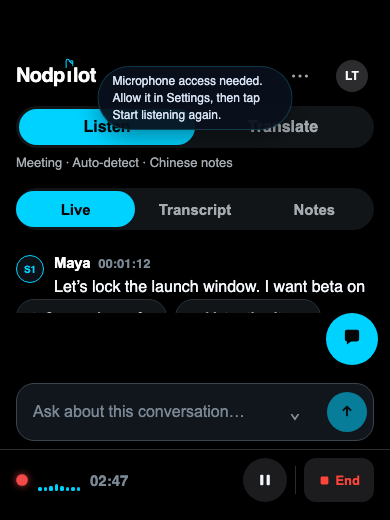
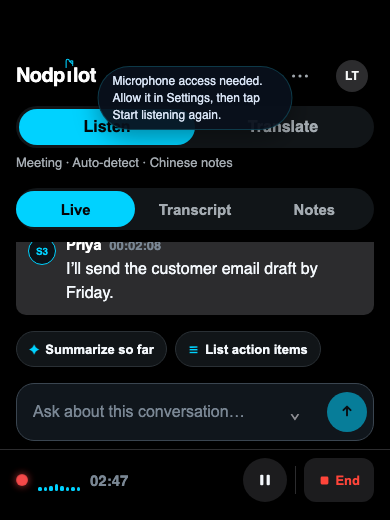
fix(web): Translate Pause→Stop, Ask drag clamp, keyboard shortcuts crush (#193 review round 1)
Three items from the #194 review, each with an assertion that fails on the
previous commit:

1. Translate Pause → Stop did nothing. The bar's Stop calls `handleStop`, which
   only handled a live capture or a Meeting session, so a PAUSED Translate
   session fell through and the listener stayed attached — the order's
   "Pause → Stop → next session" was not met. `handleStop` now ends a paused
   non-Meeting session with the same bare `stopListen()` the translate branch of
   `handlePrimary` already uses from the listening state; Meeting keeps its
   notes+save path. e2e: "Pause then Stop really ends a Translate session, and
   the next one can start" (stop_listen count 0 before, 1 after).

2. Two ask pointer anchors were taken from `getBoundingClientRect()`, which
   already carries the running translate — the accumulated offset was added a
   second time, so the clamp saw a phantom position: dragging back towards an
   edge overshot the bubble's own limit (measured 346 vs the 327 limit) and could
   push it off-screen, and a hard drag could be swallowed entirely. The drag now
   anchors on the UNtranslated position. e2e drives two in-bounds drags (pointer
   tracking), then a clamp-binding drag, then a drag back out, and a cancelled
   gesture followed by a tap.

3. Keyboard-open layout still clipped: the metric showed the shortcuts crushed to
   14px (their own scroll height 44) because the always-present Ask bubble plus
[…]

Changed region(s): [[0.0308, 0.4615, 0.9846, 0.7077]]

diff --git a/web/e2e/listen-mobile.spec.ts b/web/e2e/listen-mobile.spec.ts
@@ -188,6 +188,58 @@ test.describe('Listen mobile Ask bubble (#193 item 3)', () => {
     expect(after.x + after.width).toBeLessThanOrEqual(390)
     expect(after.y + after.height).toBeLessThanOrEqual(844)
   })
+
+  test('consecutive drags do not double-count the offset, and a cancelled drag still taps', async ({ page }) => {
+    const ws = await mockListenWs(page)
+    await ws.gotoListening()
+    const bubble = page.getByRole('button', { name: 'Ask' })
+    const input = page.locator('.listen-prompt input')
+    const dragBy = async (dx: number, dy: number) => {
+      const b = (await bubble.boundingBox())!
+      await page.mouse.move(b.x + b.width / 2, b.y + b.height / 2)
+      await page.mouse.down()
+      await page.mouse.move(b.x + b.width / 2 + dx, b.y + b.height / 2 + dy, { steps: 12 })
+      await page.mouse.up()
+    }
+
+    // Two in-bounds drags: each must track the pointer exactly (the cumulative
+    // bug stays invisible while the clamp does not bind — hence the third step).
+    const start = (await bubble.boundingBox())!
+    await dragBy(-60, -100)
+    const first = (await bubble.boundingBox())!
+    expect(Math.abs(first.x - start.x + 60)).toBeLessThanOrEqual(3)
+    expect(Math.abs(first.y - start.y + 100)).toBeLessThanOrEqual(3)
+    await dragBy(-60, -100)
+    const second = (await bubble.boundingBox())!
+    expect(Math.abs(second.x - first.x + 60)).toBeLessThanOrEqual(3)
+    expect(Math.abs(second.y - first.y + 100)).toBeLessThanOrEqual(3)
+
+    // Now drag back towards the edge with the pointer STAYING inside the
+    // viewport. The old math clamped a position displaced by an extra offset,
+    // so the bubble sailed past its own right limit (346 vs 326 here) and could
+    // leave the screen; the fixed math pins it at the limit.
+    await dragBy(140, 60)
+    const clamped = (await bubble.boundingBox())!
+    const limitX = 390 - clamped.width - 12
+    expect(clamped.x).toBeLessThanOrEqual(limitX + 1)
+    expect(clamped.x + clamped.width).toBeLessThanOrEqual(390)
+    expect(clamped.y + clamped.height).toBeLessThanOrEqual(844)
+
+    // and a drag back out of that clamped position still works
+    await dragBy(-120, -140)
+    const back = (await bubble.boundingBox())!
+    expect(back.x).toBeLessThan(clamped.x - 40)
+    expect(back.y).toBeLessThan(clamped.y - 60)
+
+    // none of that was a tap: the input stayed closed
+    await expect(input).toHaveCount(0)
+
+    // a cancelled gesture must not eat the next tap
+    await bubble.dispatchEvent('pointercancel', { pointerId: 9, clientX: 10, clientY: 10 })
+    await bubble.click()
+    await expect(input).toBeVisible()
+    await expect(input).toBeFocused()
+  })
 })
 
 test.describe('Listen mobile recording chrome', () => {
@@ -315,6 +367,17 @@ test.describe('Listen mobile recording chrome', () => {
     // indicator — that dead space is what pushed the controls out of the viewport
     const padding = await page.locator('.iphone-live-bar').evaluate((el) => getComputedStyle(el).paddingBottom)
     expect(padding).toBe('10px')
+    // and the shortcuts must survive the shrunken feed instead of being crushed
+    const chips = await page.locator('.iphone-ask-chips').evaluate((el) => {
+      const r = el.getBoundingClientRect()
+      return { h: r.height, bottom: r.bottom, clientH: el.clientHeight, scrollH: el.scrollHeight }
+    })
+    expect(chips.h).toBeGreaterThanOrEqual(40)
+    expect(chips.scrollH).toBeLessThanOrEqual(chips.clientH + 1)
+    expect(chips.bottom).toBeLessThanOrEqual(boxes.viewport)
+    // while the keyboard is up the input row is the Ask control, so the bubble
+    // steps aside (it returns on blur)
+    await expect(page.getByRole('button', { name: 'Ask' })).toBeHidden()
     await page.screenshot({ path: `${EVIDENCE}/listen-ask-kb-390.png` })
   })
 })
@@ -433,6 +496,31 @@ test.describe('Translate mobile chrome (#193 item 5)', () => {
     await page.getByRole('button', { name: 'Start voice translation' }).click()
     ws.send({ type: 'phase', capture: 'listening', engine: 'idle' })
     await expect(page.locator('.iphone-live-bar .iphone-clock')).toHaveText('00:00')
+  })
+
+  test('Pause then Stop really ends a Translate session, and the next one can start', async ({ page }) => {
+    const ws = await mockListenWs(page, '/app?demo=meeting')
+    await countSends(page)
+    await page.getByRole('tab', { name: /translate/i }).click()
+    await page.getByRole('button', { name: 'Start voice translation' }).click()
+    ws.send({ type: 'phase', capture: 'listening', engine: 'idle' })
+    await expect(page.getByRole('button', { name: 'Stop' })).toBeVisible()
+    await page.getByRole('button', { name: 'Pause' }).click()
+    ws.send({ type: 'phase', capture: 'paused', engine: 'idle' })
+    await expect(page.getByRole('button', { name: 'Resume' })).toBeVisible()
+
+    await page.getByRole('button', { name: 'Stop' }).click()
+    await expect.poll(() => sendsOf(page, 'stop_listen')).toBe(1)
+
+    ws.send({ type: 'phase', capture: 'off', engine: 'idle' })
+    await expect(page.getByRole('button', { name: 'Start voice translation' })).toBeVisible()
+    // no Save anywhere on this path either
+    await expect(page.getByRole('button', { name: /^Save/ })).toHaveCount(0)
+
+    // the next session starts cleanly
+    await page.getByRole('button', { name: 'Start voice translation' }).click()
+    ws.send({ type: 'phase', capture: 'listening', engine: 'idle' })
+    await expect(page.getByRole('button', { name: 'Stop' })).toBeVisible()
   })
 
   test('Translate offers no Save anywhere (#193 item 8)', async ({ page }) => {

diff --git a/web/src/App.css b/web/src/App.css
@@ -7727,6 +7727,10 @@ html.nod-phone .app.iphone-v2 .iphone-ask-chips {
   display: flex;
   gap: 8px;
   overflow-x: auto;
+  /* #193 review: never let a shrinking feed crush the shortcuts to a sliver —
+     their own height must survive the keyboard-open layout. */
+  flex: 0 0 auto;
+  min-height: 44px;
   padding: 0 max(var(--iphone-gutter), env(safe-area-inset-right)) 8px max(var(--iphone-gutter), env(safe-area-inset-left));
 }
 
@@ -8572,6 +8576,14 @@ html.nod-phone .app.iphone-v2 .translate-main .empty-sub {
   color: #8e8e93;
   font-size: 14px;
   margin-top: 6px;
+}
+
+/* #193 item 7: while the keyboard is open the input row IS the Ask control, so
+   the bubble does not also take 52px out of an already-short body area (that is
+   what crushed the shortcuts). The input's own close button collapses it and the
+   bubble comes back when the keyboard closes. */
+html.nod-native.kb-open .app.iphone-v2 .iphone-ask-bubble {
+  display: none;
 }
 
 /* #193 item 7: with the keyboard open the keyboard owns the bottom edge, so the

diff --git a/web/src/useStickToBottom.ts b/web/src/useStickToBottom.ts
@@ -52,5 +52,25 @@ export function useStickToBottom(
     // Caller owns the dependency list (lines.length / partial / pane visibility).
   }, deps)
 
+  // A keyboard/layout change shrinks the viewport without adding content: if the
+  // list was following the bottom, keep it there, otherwise the last line (and
+  // the shortcuts that sit under it) end up below the fold.
+  useEffect(() => {
+    if (!active) return
+    const el = ref.current
+    if (!el) return
+    const stick = () => {
+      if (stuckRef.current) el.scrollTop = el.scrollHeight
+    }
+    window.addEventListener('resize', stick)
+    window.visualViewport?.addEventListener('resize', stick)
+    window.visualViewport?.addEventListener('scroll', stick)
+    return () => {
+      window.removeEventListener('resize', stick)
+      window.visualViewport?.removeEventListener('resize', stick)
+      window.visualViewport?.removeEventListener('scroll', stick)
+    }
+  }, [ref, active])
+
   return { stuck, hasNew, scrollToBottom }
 }

diff --git a/web/src/App.tsx b/web/src/App.tsx
@@ -2692,6 +2692,16 @@ export default function App() {
     }
     if (s.workspaceMode === 'meeting' && s.meetingStartedAt != null && !s.meetingEnded) {
       endMeetingListeningRef.current('Listening stopped · writing notes', true)
+      return
+    }
+    // #193: Translate (and Live Q&A) have no notes/save machine, so a PAUSED
+    // session must still Stop — handlePrimary only resumes it, so Pause → Stop
+    // used to leave the listener attached and blocked the next session. This
+    // mirrors the bare stopListen() the translate branch of handlePrimary
+    // already uses from the listening state.
+    if (s.capture === 'paused' && s.workspaceMode !== 'meeting') {
+      stopListen()
+      dispatch({ type: 'engine', ev: { type: 'status', text: 'Stopped' } })
     }
   }, [handlePrimary])
 

diff --git a/web/src/components/AskBubble.tsx b/web/src/components/AskBubble.tsx
@@ -92,8 +92,12 @@ export default function AskBubble({
       y: e.clientY,
       dx: offset.dx,
       dy: offset.dy,
-      baseX: rect.left,
-      baseY: rect.top,
+      // `rect` already carries the current translate, so the anchor for this
+      // gesture is the UNtranslated position — adding the accumulated offset
+      // again would double-count it and make the clamp fire early (a second
+      // drag towards the edge then could not even be pulled back).
+      baseX: rect.left - offset.dx,
+      baseY: rect.top - offset.dy,
       bounds: boundsFor(rect.width || BUBBLE_SIZE),
       moved: false,
     }
